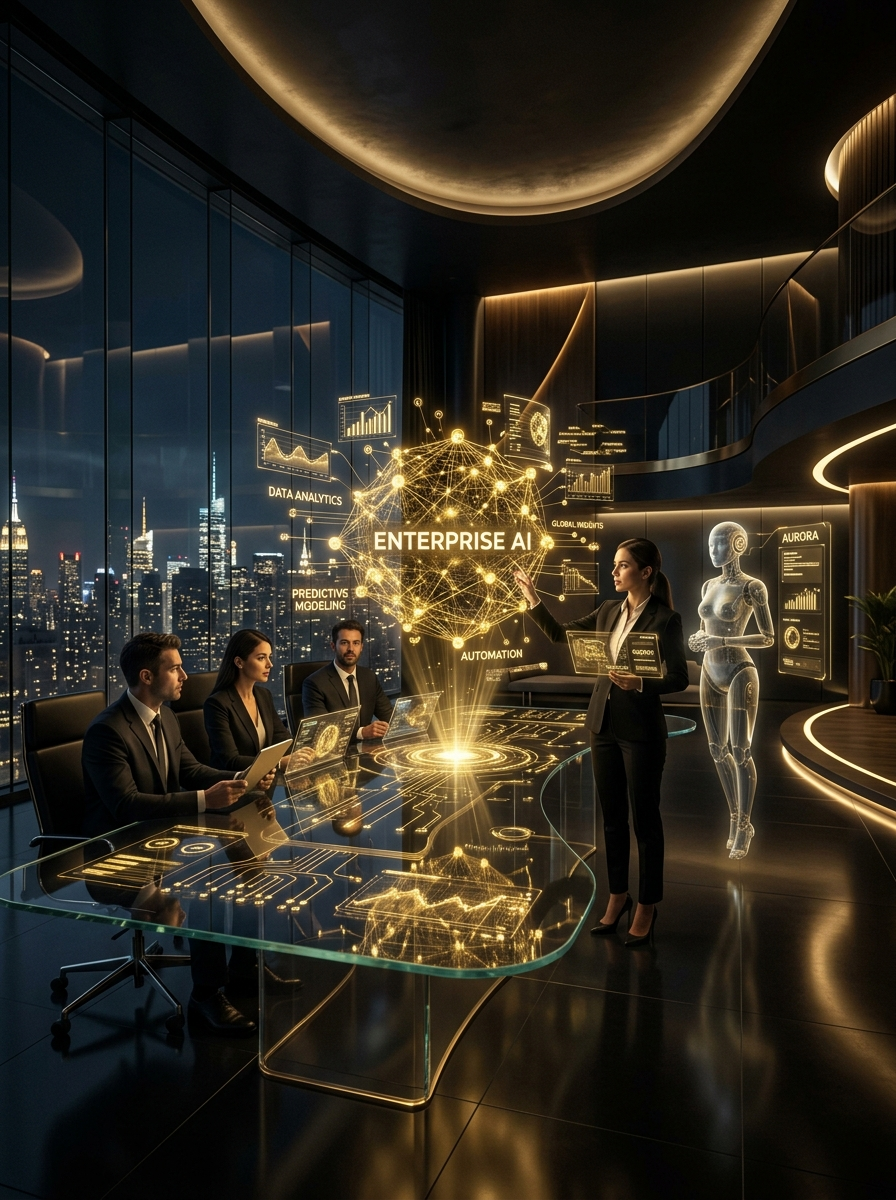
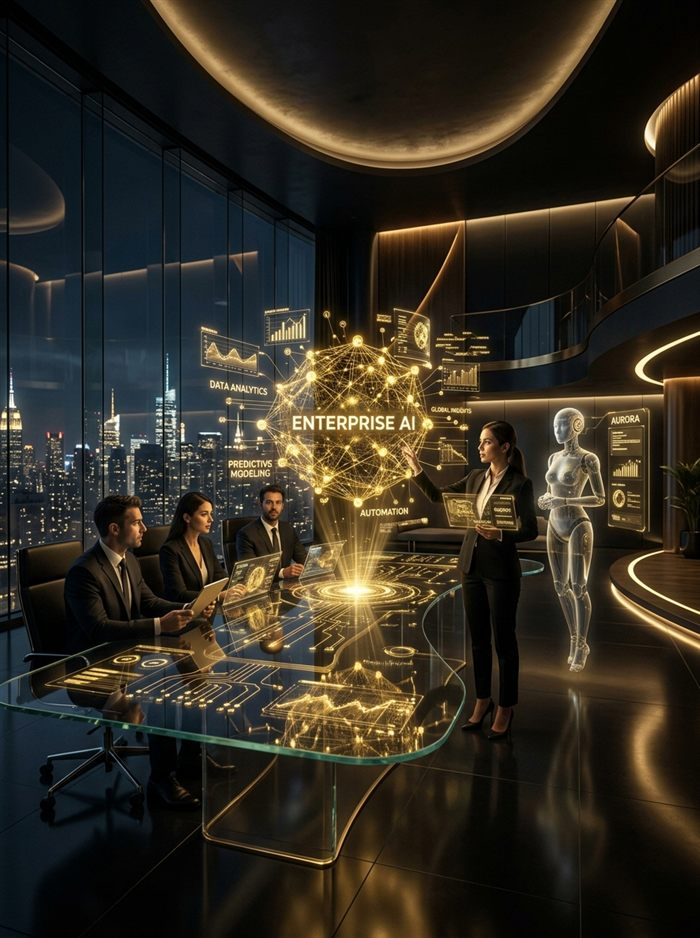
Optimizacion de velocidad: comprimir imagen del hero (818KB -> 112KB) y pausar el canvas de particulas en segundo plano
- images/ai_business_hero.jpg: se redimensiona de 896x1200 a 700x938
  (se mostraba en pantalla a solo 330x480 CSS px -- estaba sobrando
  casi el doble de resolucion) y se recomprime a calidad 82. Sin
  perdida visible, 86% mas liviana. Es la imagen mas pesada del sitio,
  probable elemento de LCP.
- js/app.js: el canvas de particulas (#quantum-canvas) ahora respeta
  'prefers-reduced-motion' del sistema operativo (dibuja un solo
  cuadro estatico en vez de animar en bucle, accesibilidad) y pausa el
  requestAnimationFrame cuando la pestaña no esta visible (se retoma
  al volver) -- antes corria el calculo O(n^2) de conexiones entre
  particulas para siempre, incluso con la pestaña en segundo plano.
  Se deja el efecto visual identico cuando la pestaña esta activa.

Changed region(s): [[0.33, 0.7111, 0.36, 0.742]]

diff --git a/js/app.js b/js/app.js
@@ -68,9 +68,14 @@ function initMobileMenu() {
 function initQuantumBackground() {
   const canvas = document.getElementById('quantum-canvas');
   if (!canvas) return;
-  
+
+  // Respeta "reducir movimiento" del sistema operativo (accesibilidad) --
+  // se deja el canvas quieto, sin el bucle de animacion.
+  const prefersReducedMotion = window.matchMedia('(prefers-reduced-motion: reduce)').matches;
+
   const ctx = canvas.getContext('2d');
   let particles = [];
+  let animationFrameId = null;
   let mouse = { x: null, y: null, radius: 120 };
   
   function resizeCanvas() {
@@ -185,15 +190,35 @@ function initQuantumBackground() {
   }
 
   function animate() {
-    requestAnimationFrame(animate);
+    animationFrameId = requestAnimationFrame(animate);
     ctx.clearRect(0, 0, canvas.width, canvas.height);
-    
+
     particles.forEach(p => p.update());
     connect();
   }
-  
+
+  // Pausa el bucle de animacion cuando la pestaña no esta visible (ahorra
+  // CPU/batería en segundo plano) y lo retoma al volver.
+  document.addEventListener('visibilitychange', () => {
+    if (prefersReducedMotion) return;
+    if (document.hidden) {
+      if (animationFrameId !== null) {
+        cancelAnimationFrame(animationFrameId);
+        animationFrameId = null;
+      }
+    } else if (animationFrameId === null) {
+      animate();
+    }
+  });
+
   resizeCanvas();
-  animate();
+  if (prefersReducedMotion) {
+    // Un solo cuadro estatico (particulas + conexiones), sin bucle continuo.
+    particles.forEach(p => p.draw());
+    connect();
+  } else {
+    animate();
+  }
 }
 
 // 2. PWA REGISTRATION

diff --git a/index.html b/index.html
@@ -1107,6 +1107,6 @@
   </div>
 
   <!-- Javascript Scripts -->
-  <script src="js/app.js?v=32"></script>
+  <script src="js/app.js?v=33"></script>
 </body>
 </html>
